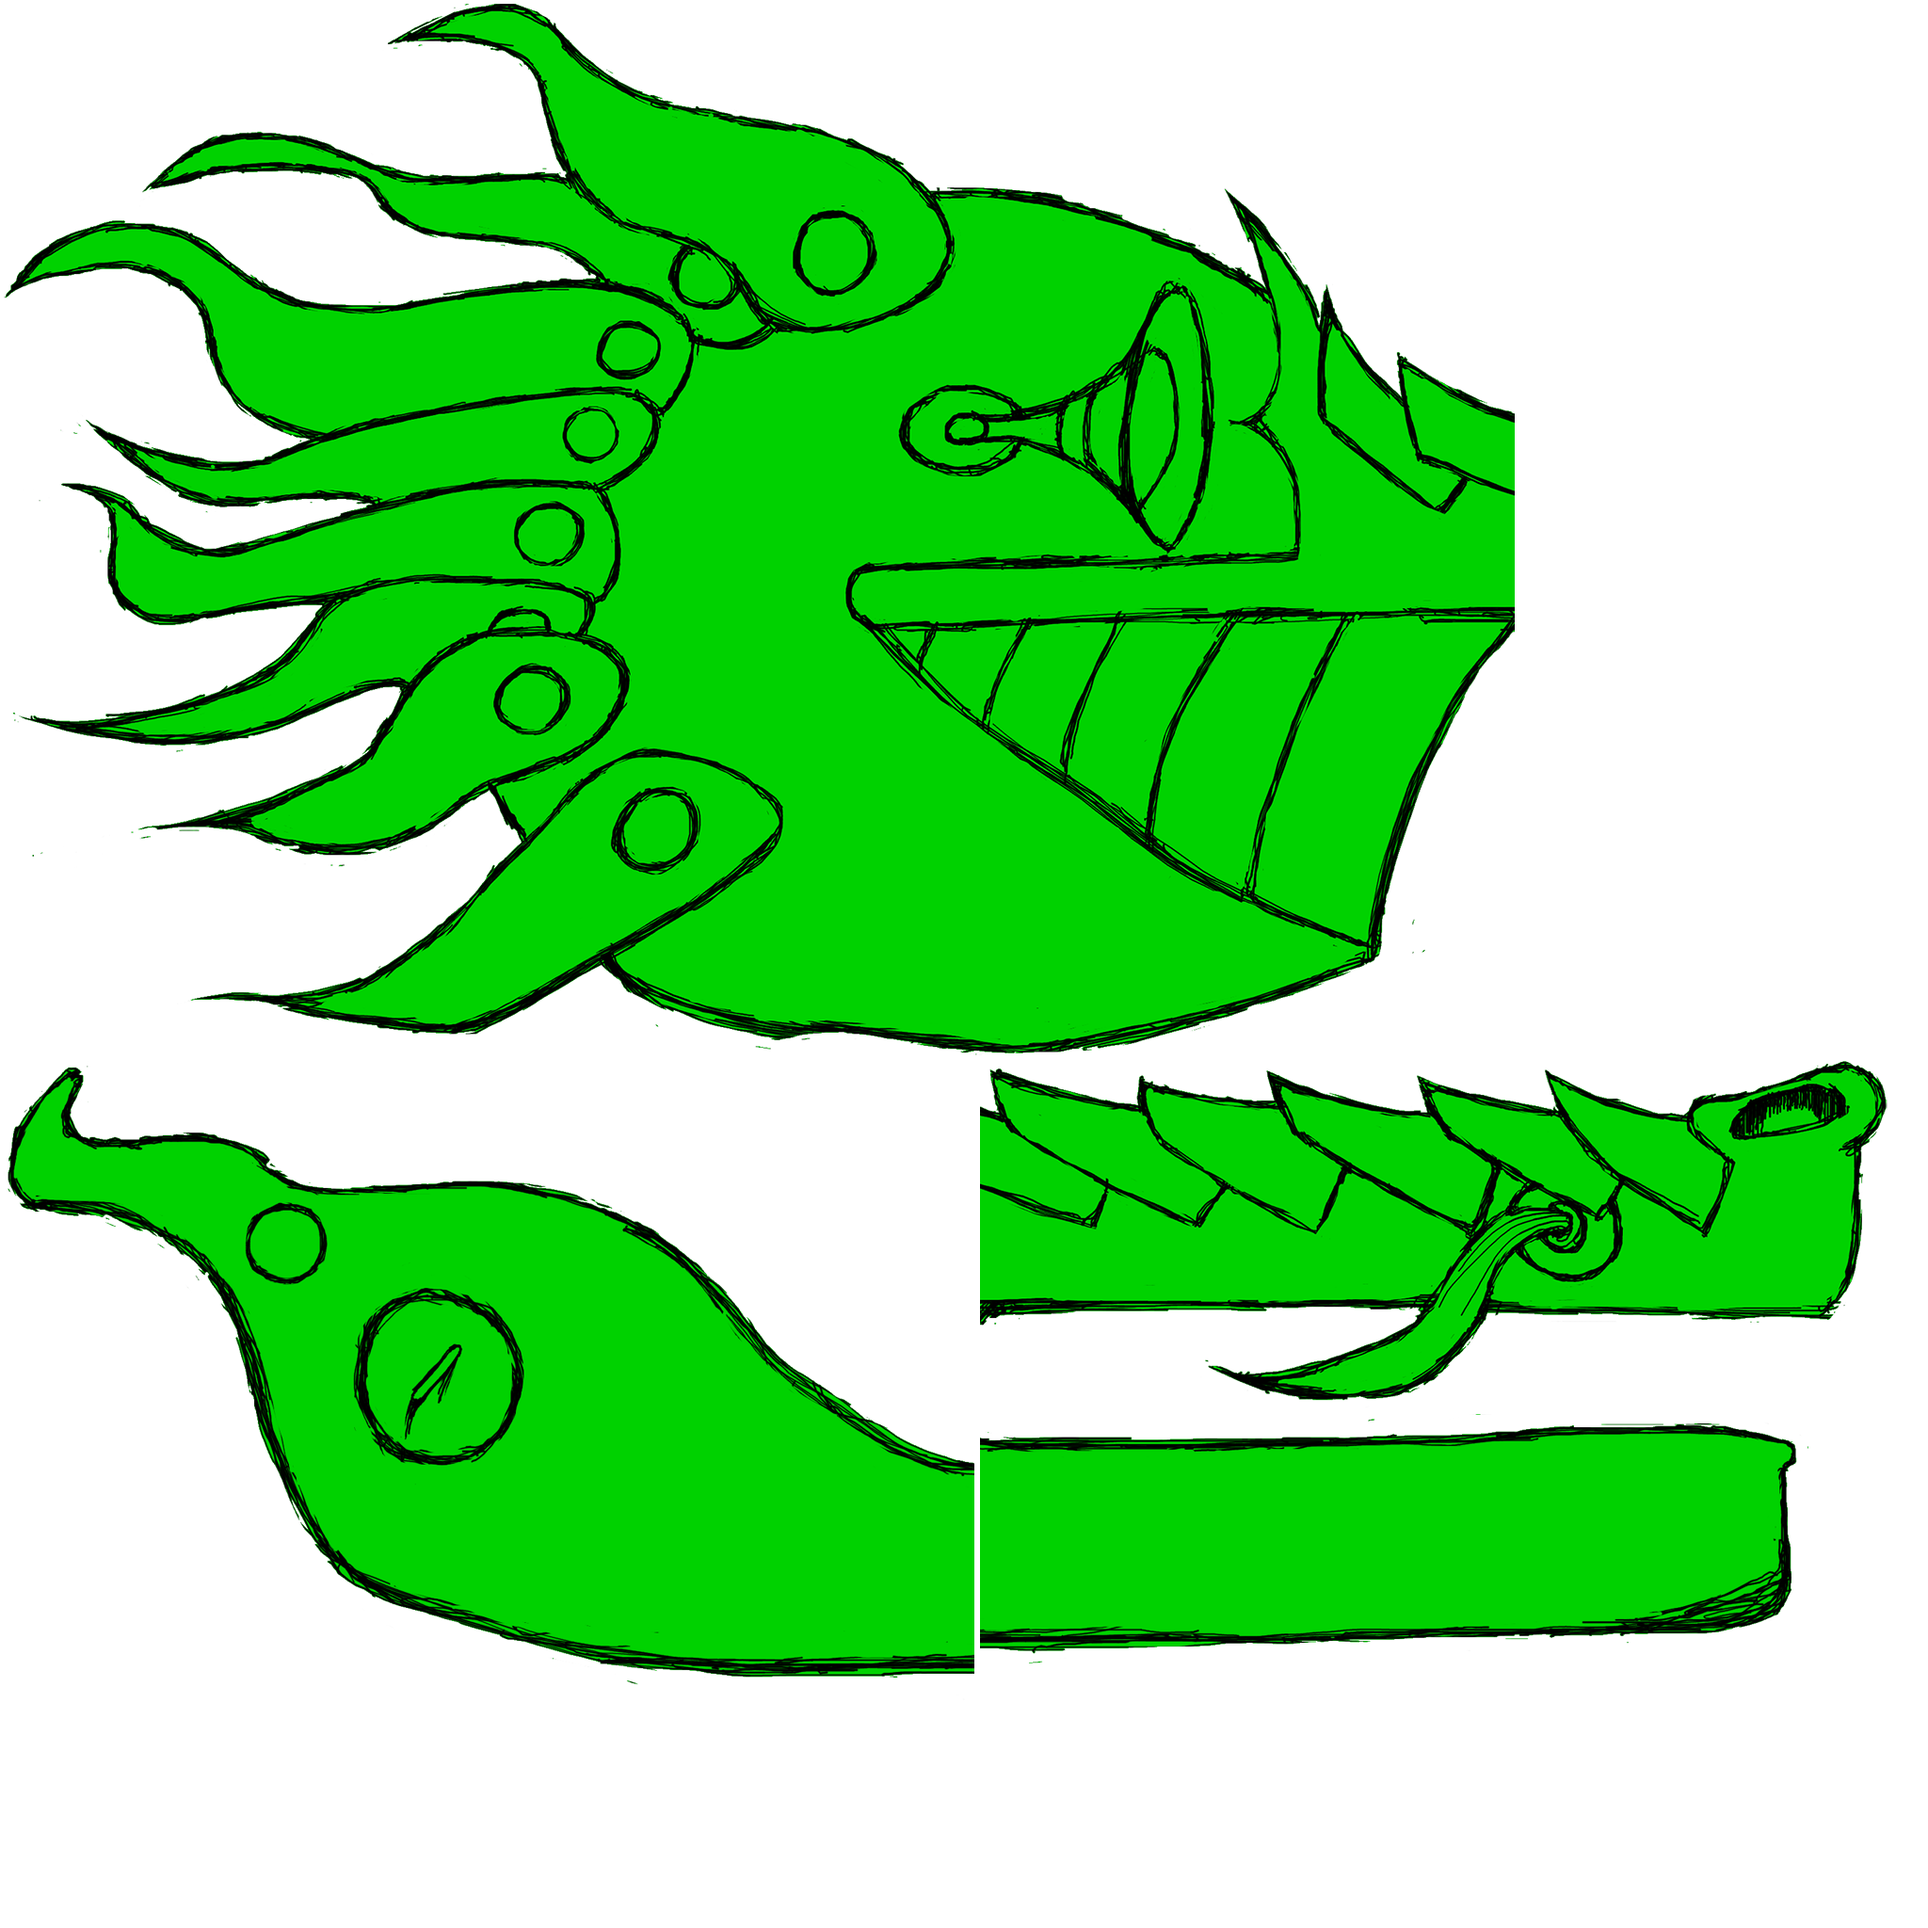
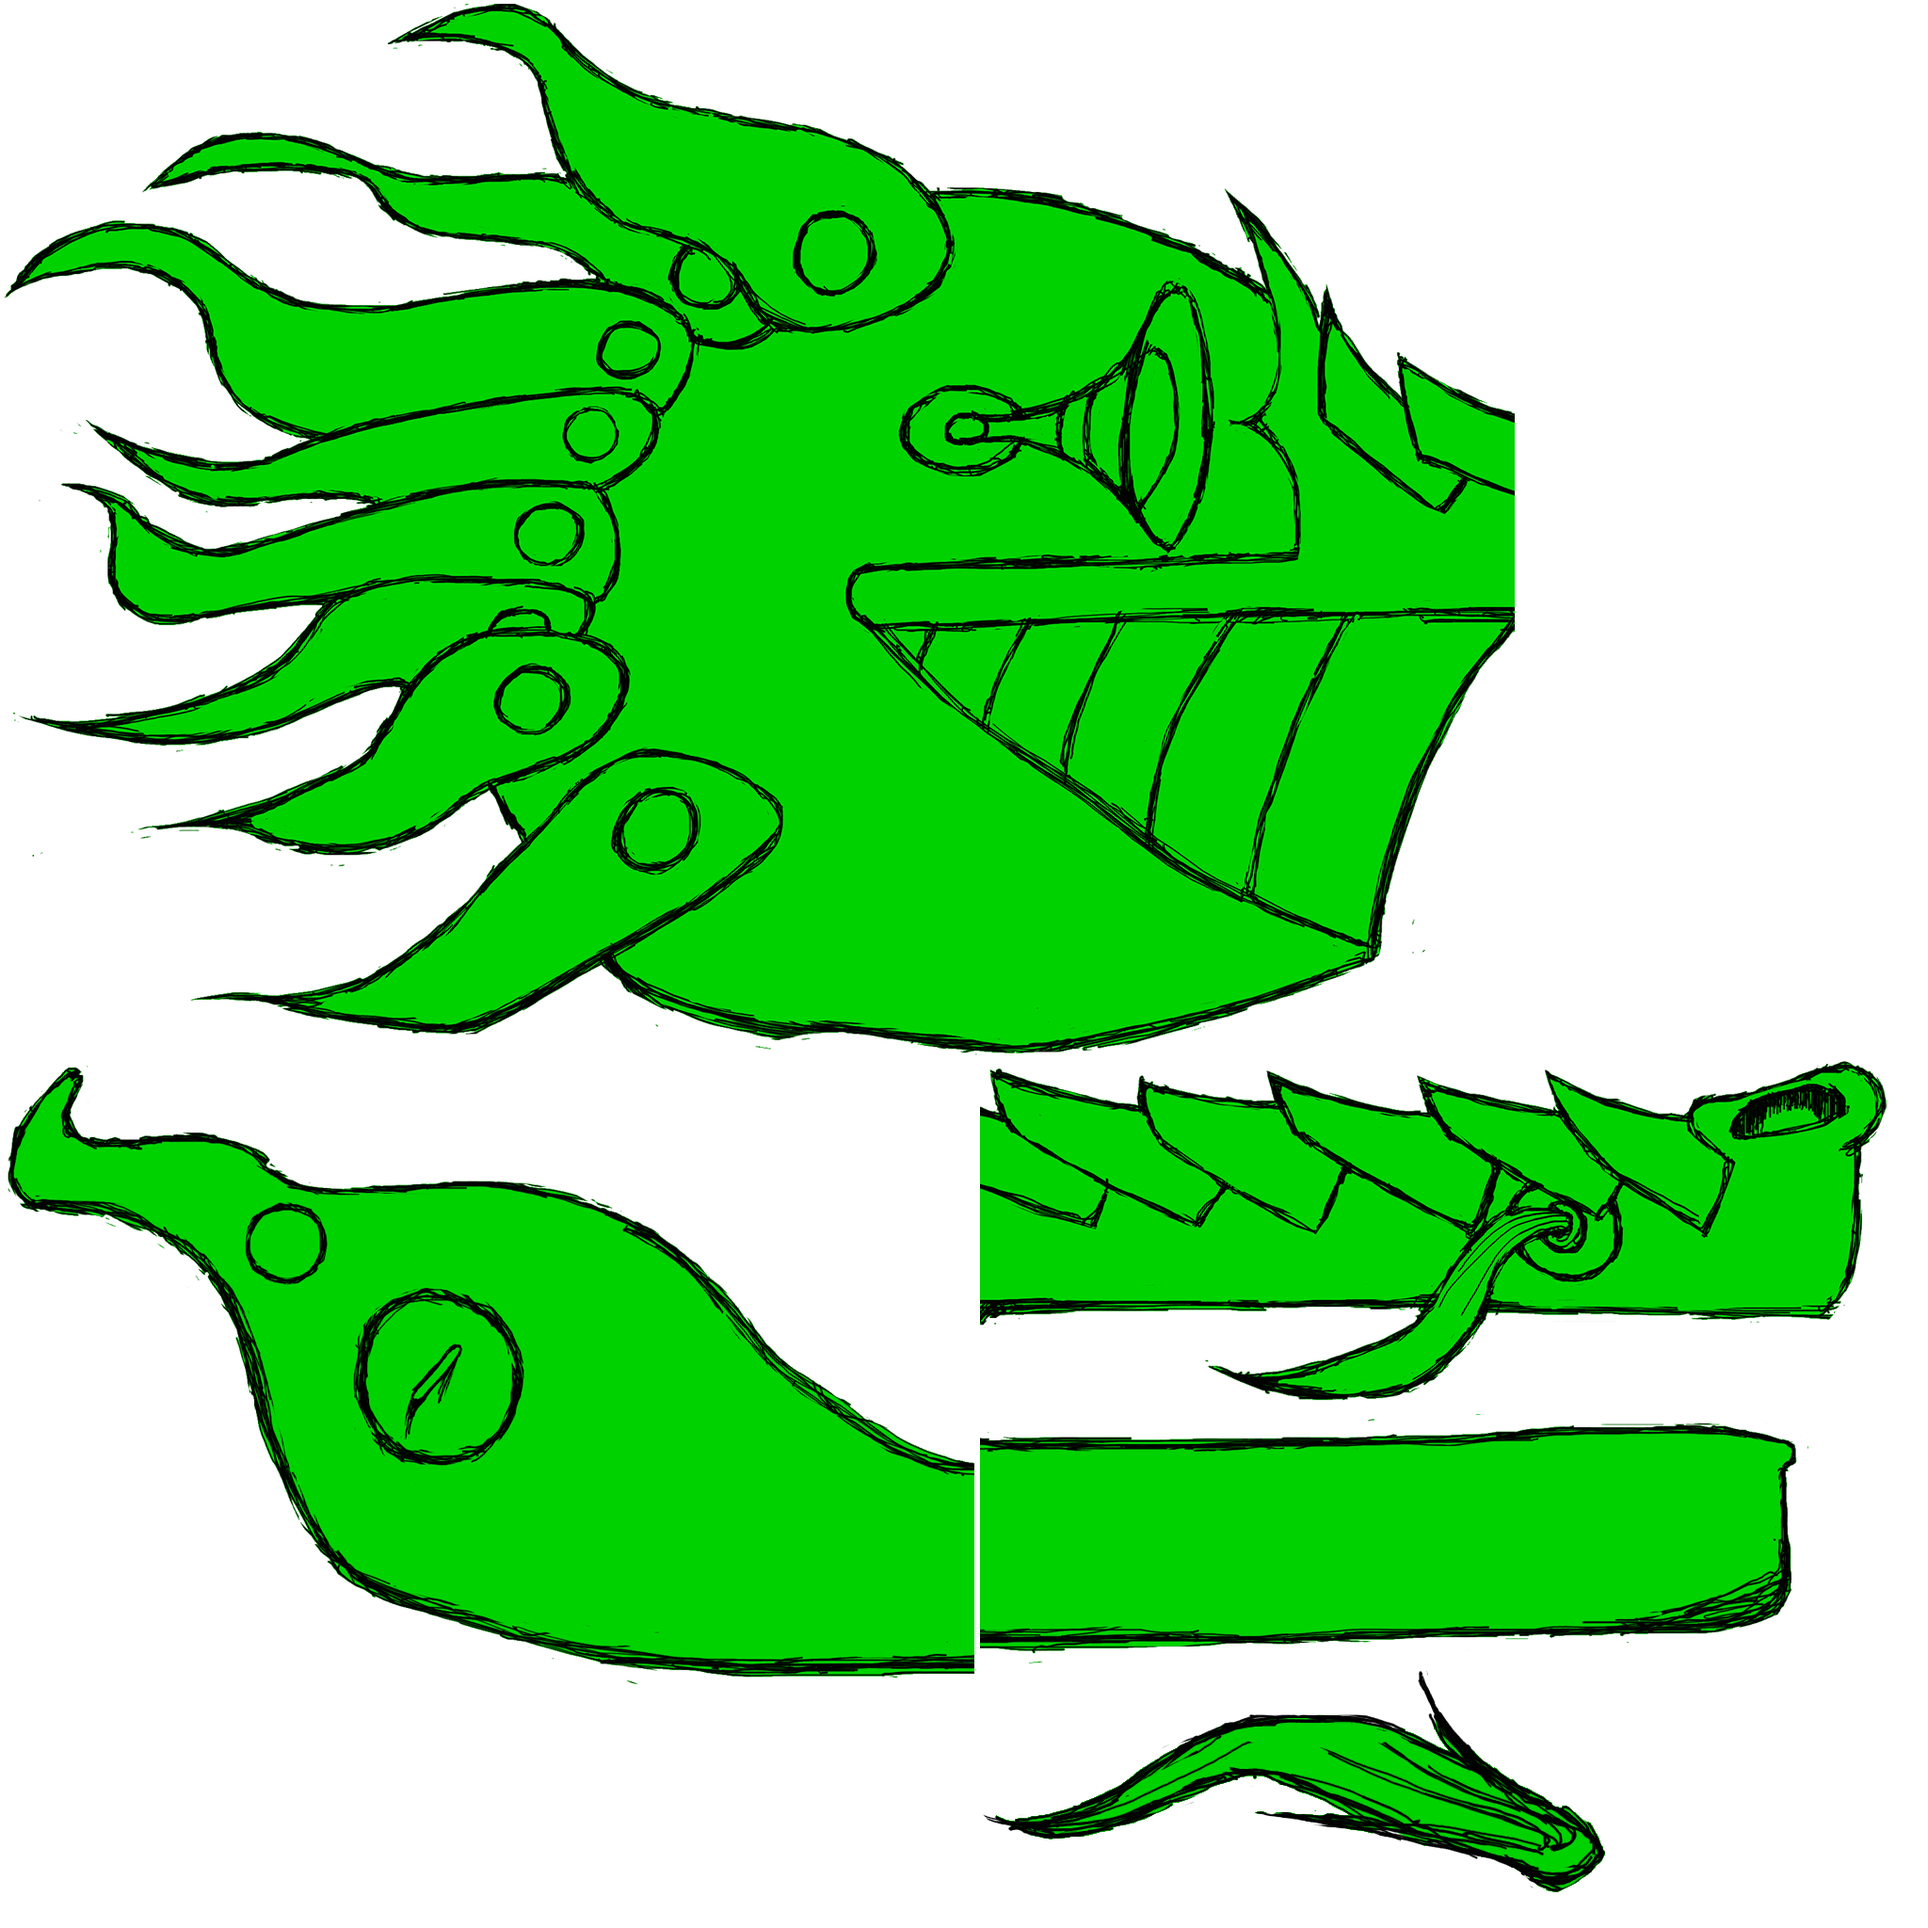
Eyebrow

Changed region(s): [[0.5312, 0.875, 0.8438, 1.0]]

diff --git a/werescrewed/src/com/blindtigergames/werescrewed/screens/PhysicsTestScreen.java b/werescrewed/src/com/blindtigergames/werescrewed/screens/PhysicsTestScreen.java
@@ -1,11 +1,17 @@
 package com.blindtigergames.werescrewed.screens;
 
+import java.util.HashMap;
 import java.util.Iterator;
+
+import aurelienribon.tweenengine.Timeline;
+import aurelienribon.tweenengine.Tween;
+import aurelienribon.tweenengine.TweenEquations;
 
 import com.badlogic.gdx.Application;
 import com.badlogic.gdx.Gdx;
 import com.badlogic.gdx.Input;
 import com.badlogic.gdx.Input.Keys;
+import com.badlogic.gdx.files.FileHandle;
 import com.badlogic.gdx.graphics.Texture;
 import com.badlogic.gdx.math.Vector2;
 import com.badlogic.gdx.physics.box2d.Body;
@@ -28,6 +34,7 @@ import com.blindtigergames.werescrewed.entity.RootSkeleton;
 import com.blindtigergames.werescrewed.entity.Skeleton;
 import com.blindtigergames.werescrewed.entity.Sprite;
 import com.blindtigergames.werescrewed.entity.action.CannonLaunchAction;
+import com.blindtigergames.werescrewed.entity.action.SetRobotStateAction;
 import com.blindtigergames.werescrewed.entity.builders.EventTriggerBuilder;
 import com.blindtigergames.werescrewed.entity.builders.PlatformBuilder;
 import com.blindtigergames.werescrewed.entity.builders.PlayerBuilder;
@@ -43,16 +50,19 @@ import com.blindtigergames.werescrewed.entity.mover.PuzzleType;
 import com.blindtigergames.werescrewed.entity.mover.RotateByDegree;
 import com.blindtigergames.werescrewed.entity.mover.RotateTweenMover;
 import com.blindtigergames.werescrewed.entity.mover.SlidingMotorMover;
+import com.blindtigergames.werescrewed.entity.mover.TimelineTweenMover;
 import com.blindtigergames.werescrewed.entity.mover.puzzle.PuzzlePistonTweenMover;
 import com.blindtigergames.werescrewed.entity.mover.puzzle.PuzzleRotateTweenMover;
 import com.blindtigergames.werescrewed.entity.particles.EntityParticle;
 import com.blindtigergames.werescrewed.entity.particles.EntityParticleEmitter;
 import com.blindtigergames.werescrewed.entity.particles.Steam;
+import com.blindtigergames.werescrewed.entity.platforms.Platform;
 import com.blindtigergames.werescrewed.entity.platforms.TiledPlatform;
 import com.blindtigergames.werescrewed.entity.screws.PuzzleScrew;
 import com.blindtigergames.werescrewed.entity.screws.StrippedScrew;
 import com.blindtigergames.werescrewed.entity.screws.StructureScrew;
 import com.blindtigergames.werescrewed.entity.tween.PathBuilder;
+import com.blindtigergames.werescrewed.entity.tween.PlatformAccessor;
 import com.blindtigergames.werescrewed.eventTrigger.EventTrigger;
 import com.blindtigergames.werescrewed.eventTrigger.PowerSwitch;
 import com.blindtigergames.werescrewed.graphics.SpriteBatch;
@@ -86,6 +96,8 @@ public class PhysicsTestScreen extends Screen {
 	private TextureAtlas dragonParts; 
 
 	StructureScrew limit;
+	
+	HashMap< String, PowerSwitch > browSwitchStateMap = new HashMap< String, PowerSwitch >( );
 
 	/**
 	 * Defines all necessary components in a screen for testing different
@@ -150,6 +162,8 @@ public class PhysicsTestScreen extends Screen {
 
 		//createFire( );
 		initFireballEnemy(new Vector2(900,200));
+		
+		initEyebrow(new Vector2(0,0));
 		
 	}
 
@@ -830,6 +844,12 @@ public class PhysicsTestScreen extends Screen {
 			}
 		} else
 			ScreenManager.escapeHeld = false;
+		
+		PowerSwitch p;
+		for(String key : browSwitchStateMap.keySet( )){
+			p = browSwitchStateMap.get( key );
+			
+		}
 
 	}
 
@@ -896,6 +916,87 @@ public class PhysicsTestScreen extends Screen {
 		hotbolt.addMover( new DirectionFlipMover( false, 0.001f, hotbolt, 2f, .03f ) );
 		addBGEntity( hotbolt );
 		return hotbolt;
+	}
+	
+	void initEyebrow(Vector2 pos){
+		TiledPlatform brow = platBuilder.name( "eyebrow" ).dimensions( 2,2 ).position( pos.cpy() ).buildTilePlatform( );
+		skeleton.addPlatform( brow );
+		
+		TextureAtlas browAtlas = new TextureAtlas(
+				Gdx.files.internal( "data/levels/dragon/head.pack" ) );
+		//At rest the eyebrow is unrotated at 0,0 local position.
+		brow.addFGDecal( browAtlas.createSprite( "dragoneyebrow" ));//, new Vector2(-393,-161) );
+		addFGEntity( brow );
+		
+		//angry mover
+		Timeline browSequence = Timeline.createSequence( );
+		//begin the mover by moving it to the starting position quickly
+		browSequence.beginParallel( );
+		browSequence.push( Tween.to( brow, PlatformAccessor.LOCAL_POS_XY, .5f )
+				.target( 0,0 ).ease( TweenEquations.easeInOutQuad ).start( ) );
+		browSequence.push( Tween.to( brow, PlatformAccessor.LOCAL_ROT, .5f )
+				.target( 0 ).ease( TweenEquations.easeInOutQuad ).start( ) );
+		browSequence.end( );
+		
+		browSequence.beginParallel( );
+			browSequence.push( Tween.to( brow, PlatformAccessor.LOCAL_POS_XY, .5f )
+				.target( 100, -100f ).ease( TweenEquations.easeInOutQuad ).start( ) );
+			browSequence.push( Tween.to( brow, PlatformAccessor.LOCAL_ROT, .5f )
+					.target( -Util.FOURTH_PI/2 ).ease( TweenEquations.easeInOutQuad ).start( ) );
+		browSequence.end( );
+		
+		browSequence.beginParallel( );
+			browSequence.push( Tween.to( brow, PlatformAccessor.LOCAL_POS_XY, 2f )
+					.target( 110, -130 ).ease( TweenEquations.easeInOutQuad ).repeatYoyo( 3, 0 ).start( ) );
+			browSequence.push( Tween.to( brow, PlatformAccessor.LOCAL_ROT, 2f )
+				.target( -Util.FOURTH_PI/2-Util.FOURTH_PI/6 ).ease( TweenEquations.easeInOutQuad ).repeatYoyo( 3, 0 ).start( ) );
+		browSequence.end( );
+		
+		
+		browSequence.beginParallel( );
+			browSequence.push( Tween.to( brow, PlatformAccessor.LOCAL_POS_XY, 1.5f )
+					.target( 0,0 ).ease( TweenEquations.easeInOutQuad ).start( ) );
+			browSequence.push( Tween.to( brow, PlatformAccessor.LOCAL_ROT, 1.5f )
+					.target( 0 ).ease( TweenEquations.easeInOutQuad ).start( ) );
+			browSequence.end( );
+		browSequence = browSequence.repeat( Tween.INFINITY, 0f );
+		
+		//brow.addMover( new TimelineTweenMover( angry.start( ) ) );
+		brow.addMover( new TimelineTweenMover( browSequence.start( ) ), RobotState.HOSTILE );
+		
+		//IDLE sequence
+		browSequence = Timeline.createSequence( );
+		browSequence.beginParallel( );
+		browSequence.push( Tween.to( brow, PlatformAccessor.LOCAL_POS_XY, .5f )
+				.target( 0,0 ).ease( TweenEquations.easeInOutQuad ).start( ) );
+		browSequence.push( Tween.to( brow, PlatformAccessor.LOCAL_ROT, .5f )
+				.target( 0 ).ease( TweenEquations.easeInOutQuad ).start( ) );
+		browSequence.end( );
+		
+		browSequence.beginParallel( );
+		browSequence.push( Tween.to( brow, PlatformAccessor.LOCAL_POS_XY, 5f )
+			.target( 20, -20f ).ease( TweenEquations.easeInOutQuad ).repeatYoyo( 5, 0 ).start( ) );
+		browSequence.push( Tween.to( brow, PlatformAccessor.LOCAL_ROT, 5f )
+				.target( -Util.FOURTH_PI/6 ).ease( TweenEquations.easeInOutQuad ).repeatYoyo( 5, 0 ).start( ) );
+		browSequence.end( );
+		browSequence = browSequence.repeat( Tween.INFINITY, 0f );
+		
+		brow.addMover( new TimelineTweenMover( browSequence.start( ) ), RobotState.IDLE );
+		
+		//((TimelineTweenMover)brow.currentMover( )).timeline.start( );
+		
+		RobotState[] states = {RobotState.IDLE,RobotState.HOSTILE};
+		PowerSwitch pSwitch;
+		for(int i=0;i<states.length;++i){
+			pSwitch = new PowerSwitch( "switch"+i, new Vector2(1300+150*i,30), world );
+			pSwitch.addBeginIAction( new SetRobotStateAction( states[i] ) );
+			pSwitch.setRepeatable( true );
+			pSwitch.setActingOnEntity( true );
+			pSwitch.addEntityToTrigger( brow );
+			skeleton.addEventTrigger( pSwitch );
+		}
+		
+		
 	}
 
 }

diff --git a/werescrewed/src/com/blindtigergames/werescrewed/entity/action/SetRobotStateAction.java b/werescrewed/src/com/blindtigergames/werescrewed/entity/action/SetRobotStateAction.java
@@ -3,8 +3,14 @@ package com.blindtigergames.werescrewed.entity.action;
 import com.blindtigergames.werescrewed.entity.Entity;
 import com.blindtigergames.werescrewed.entity.RobotState;
 
-public class EntityChangeToIdleAction implements IAction {
+public class SetRobotStateAction implements IAction {
 
+	RobotState state;
+	
+	public SetRobotStateAction(RobotState state){
+		this.state = state;
+	}
+	
 	@Override
 	public void act( ) {
 		// TODO Auto-generated method stub
@@ -13,7 +19,7 @@ public class EntityChangeToIdleAction implements IAction {
 
 	@Override
 	public void act( Entity entity ) {
-		entity.setCurrentMover( RobotState.IDLE );
+		entity.setCurrentMover( state );
 
 	}
 

diff --git a/werescrewed/src/com/blindtigergames/werescrewed/eventTrigger/PowerSwitch.java b/werescrewed/src/com/blindtigergames/werescrewed/eventTrigger/PowerSwitch.java
@@ -74,13 +74,6 @@ public class PowerSwitch extends EventTrigger {
 		float ypos = body.getPosition( ).y - ( 64f * Util.PIXEL_TO_BOX );
 
 		sprite = ( state ) ? onState : offState;
-		// if(currentSprite.equals(bgDecals.get( 0 ))){
-		// bgDecals.clear( );
-		// bgDecalAngles.clear( );
-		// bgDecalOffsets.clear( );
-		// addBGDecal( currentSprite );
-		// }
-		// updateDecals( deltaTime );
 
 		sprite.setPosition( xpos * Util.BOX_TO_PIXEL - sprite.getWidth( )
 				/ 2.0f, ypos * Util.BOX_TO_PIXEL );

diff --git a/werescrewed/src/com/blindtigergames/werescrewed/util/Util.java b/werescrewed/src/com/blindtigergames/werescrewed/util/Util.java
@@ -28,6 +28,7 @@ public class Util {
 	public static final float PI = 3.141592653589793f;
 	public static final float TWO_PI = 2 * PI;
 	public static final float HALF_PI = PI / 2;
+	public static final float FOURTH_PI = PI / 4;
 	public static final float MIN_VALUE = 0x0.000002P-126f; // 1.4e-45f
 
 	/**
